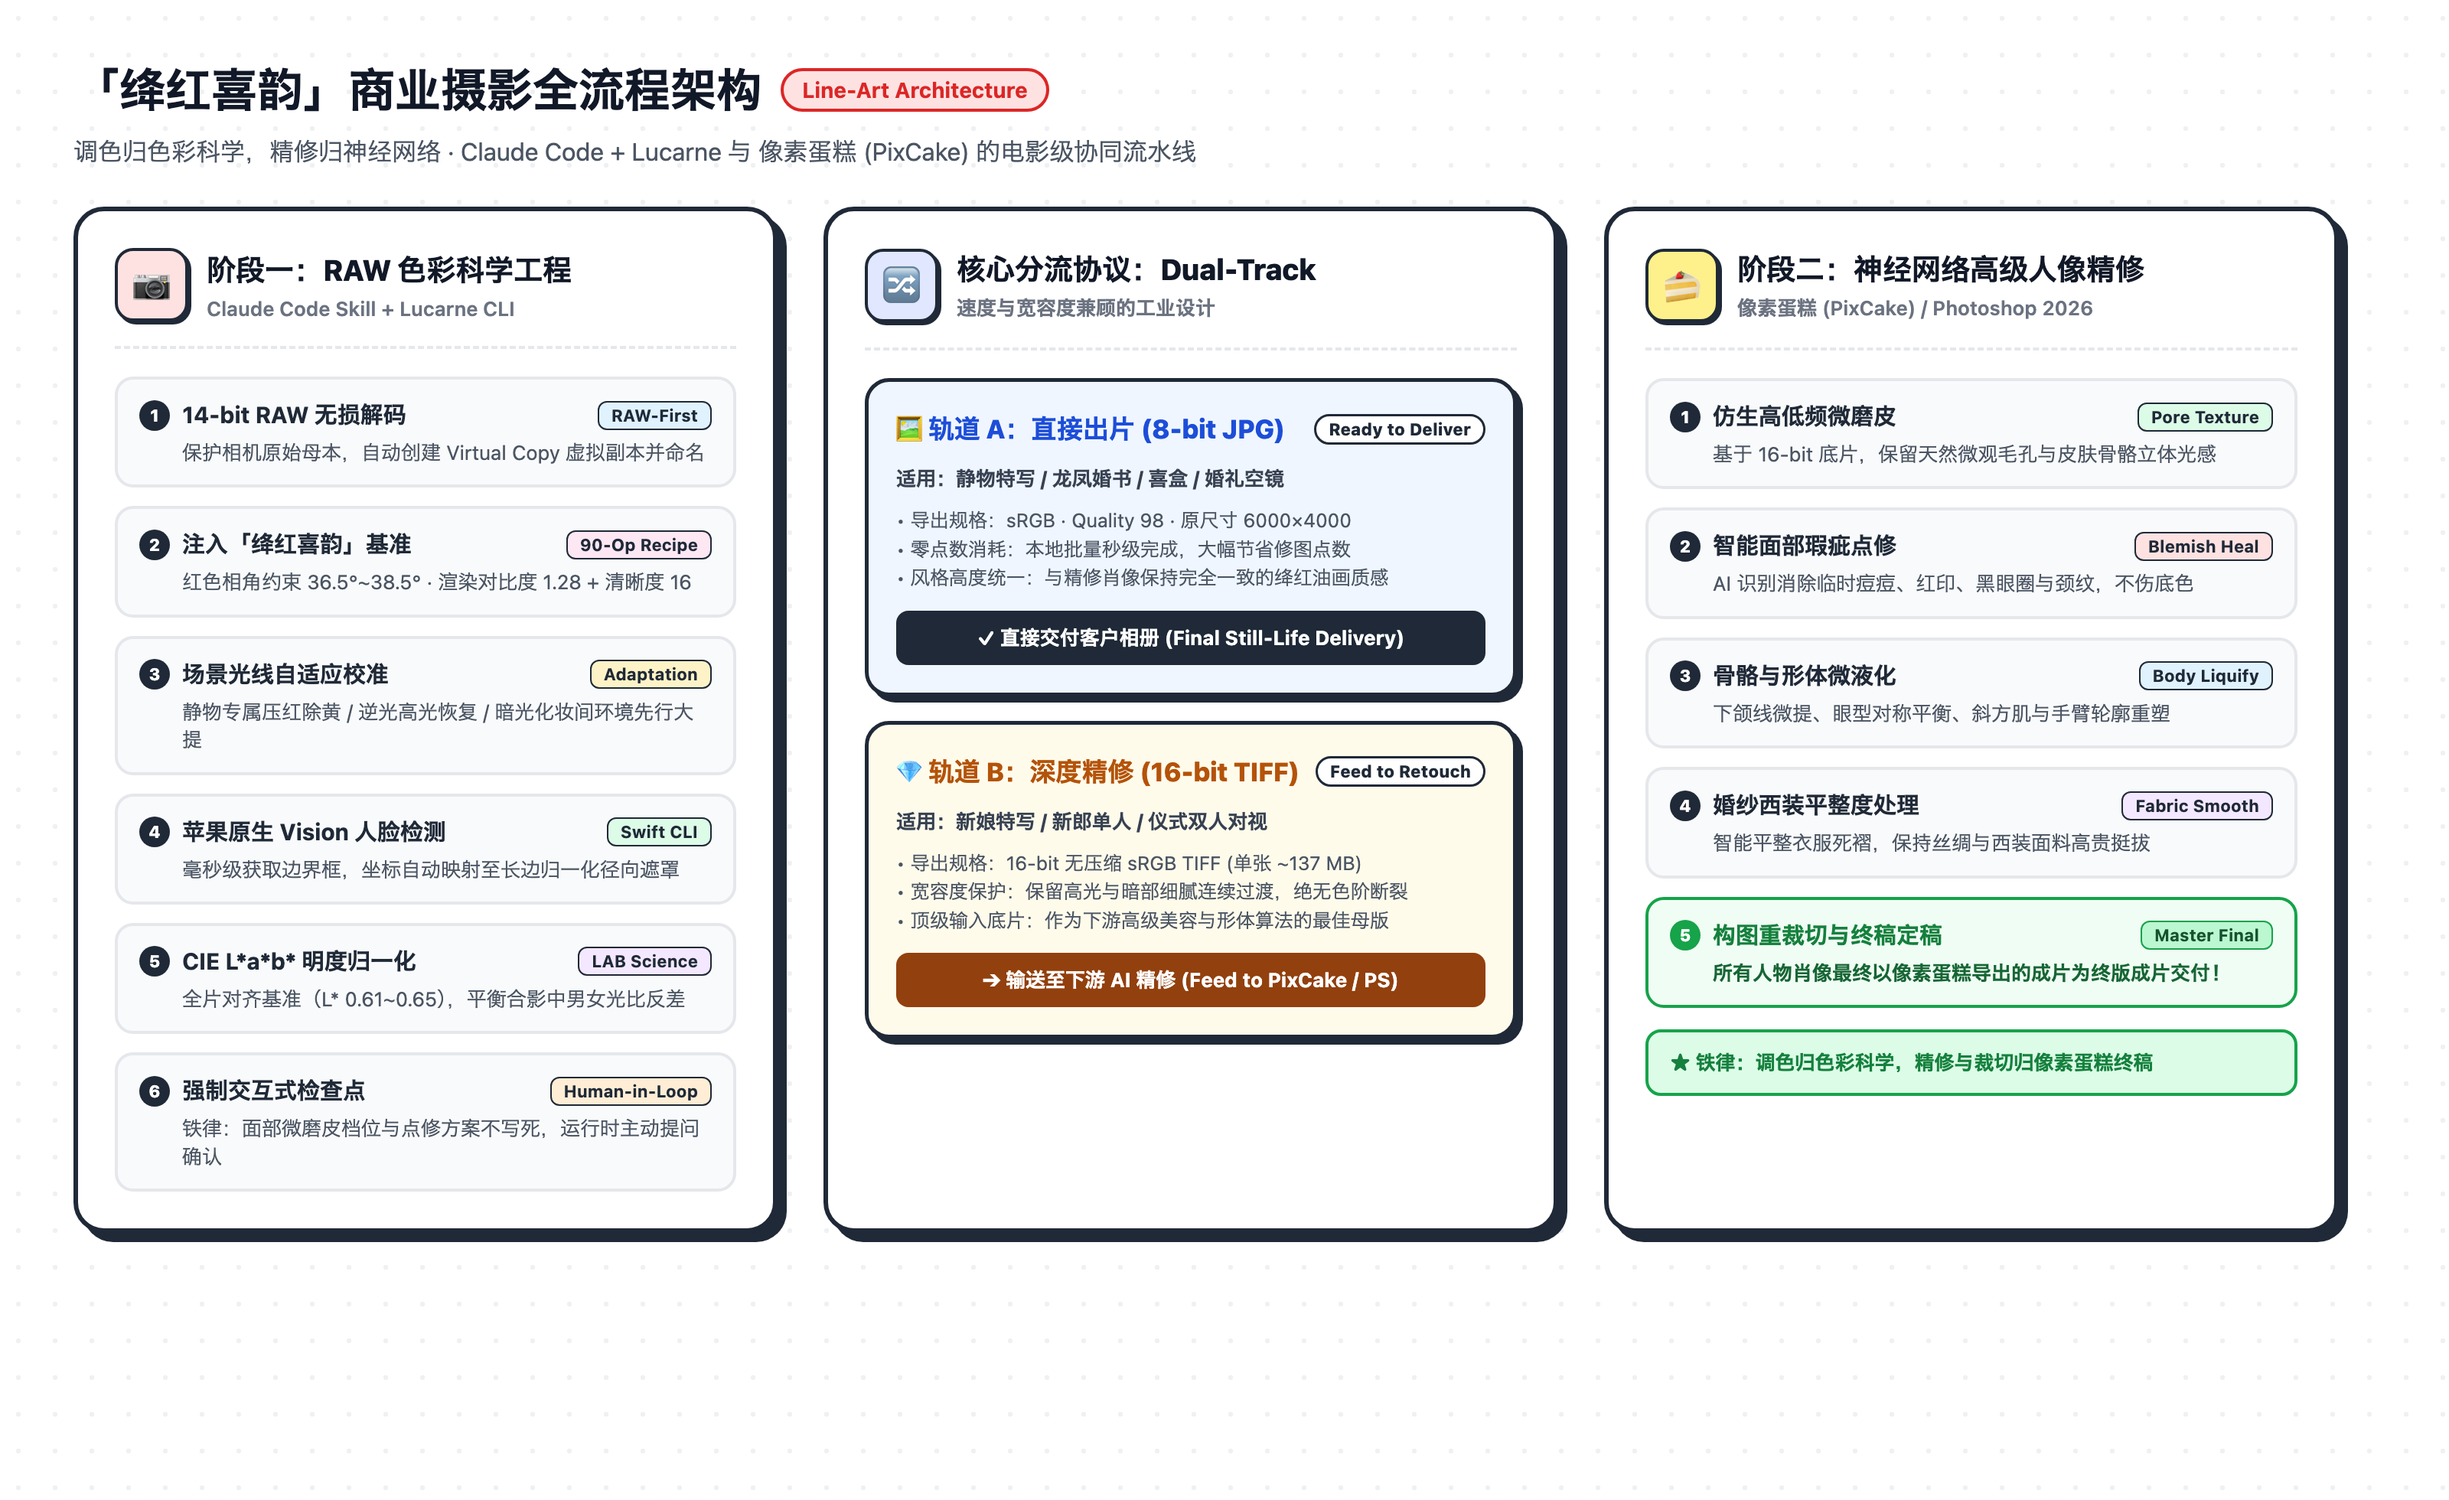
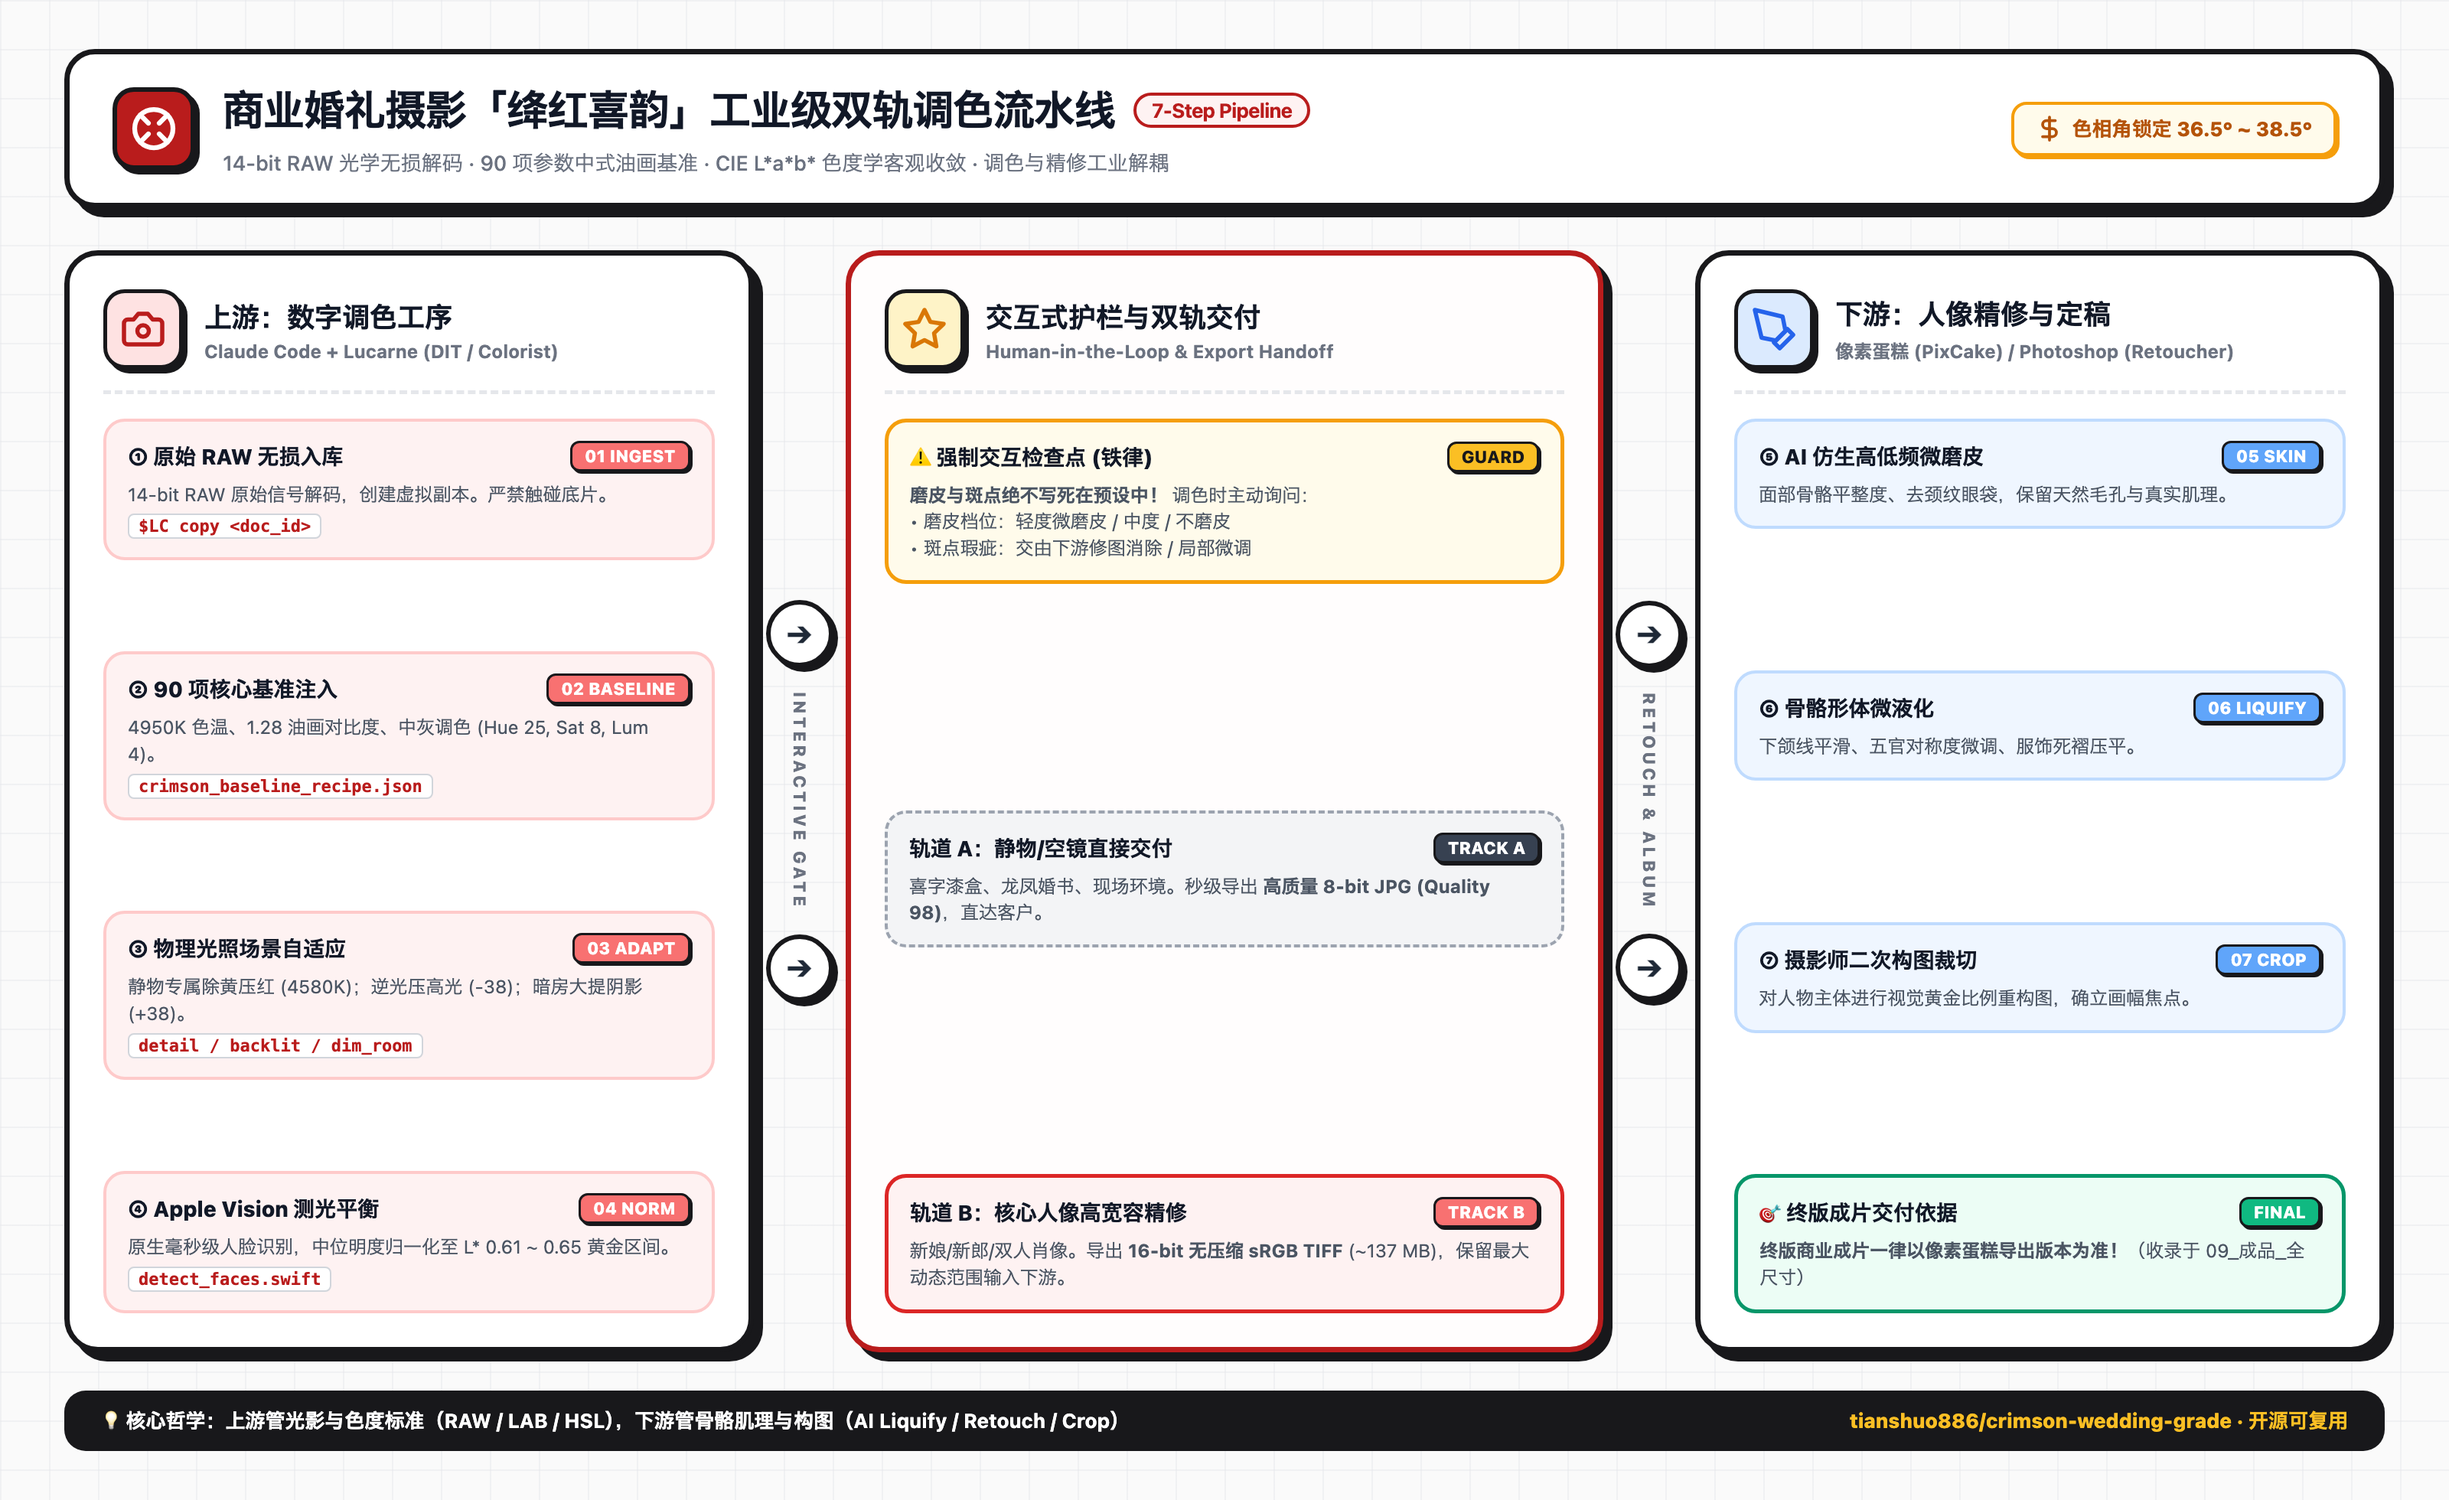
docs: expand Before/After detail comparisons strictly from final delivery folder
- Recrop 03_couple_details_before_after.jpg directly from final delivery folder (09_成品_全尺寸/JPG/TIFF_16bit_导出/DSCF0034.jpg)
- Add 06_tea_ceremony_embroidery_before_after.jpg from DSCF0038: tea ceremony white porcelain cups, hands, red Xiuhe cuffs, pure gold thread dragon-phoenix embroidery (zero faces)
- Add 07_groom_attire_bedroom_before_after.jpg from DSCF0035/DSCF0030: obsidian wool tuxedo lapel, crimson silk tie, rose boutonniere, and bedroom ambient lighting balance on red-and-gold satin bedspread
- Upgrade 01_pipeline_architecture_line_art.png with refined 7-step industrial architecture layout
- Update English and Chinese documentation reflecting all new verified visual comparisons

Changed region(s): [[0.0, 0.0311, 1.0, 0.9648]]

diff --git a/README.md b/README.md
@@ -20,18 +20,32 @@ Still-life items such as red lacquer boxes, wedding vows, tea ceremonies, and fl
 ![Still-Life Before vs After](docs/assets/02_still_life_before_after.jpg)
 
 ### 2. Core Couple Portrait Scene Details: Bridal Silk Brocade, Gold Jewelry & Velvet Drapery
-The heart of our calibration effort was dedicated to couple portraits (DSCF0034). **Strictly avoiding any identifiable facial features**, we cropped core attire, hand interactions, and wedding bedroom details for 100% side-by-side verification:
-* **Bridal Silk Gown & Pure Gold Bracelet**: Under direct tungsten lighting, camera standard files suffered massive blown-out highlights on the champagne satin gown, washing away the embroidered rose petals and gold foil leaves while leaving hands muddy yellow. After 06A grading with highlight recovery (-70, EV -0.18), delicate relief floral patterns are preserved, skin tones achieve creamy satin clarity ($L^* = 0.61 \sim 0.65$), the pure gold wedding bracelet gleams with authentic luster, and the tuxedo lapels stand out in midnight black.
+The heart of our calibration effort was dedicated to couple portraits (DSCF0034). **Strictly avoiding any identifiable facial features**, we cropped core attire, hand interactions, and wedding bedroom details for 100% side-by-side verification (taken directly from `09_成品_全尺寸` master delivery deliverables):
+* **Bridal Silk Gown & Pure Gold Bracelet**: Under direct tungsten lighting, camera standard files suffered massive blown-out highlights on the champagne satin gown, washing away the embroidered rose petals and gold foil leaves while leaving hands muddy yellow ($b^* 10.9$). After 06A grading with highlight recovery (-70, EV -0.18), delicate relief floral patterns are preserved, skin tones achieve creamy satin clarity ($b^*$ down to $5.0$), the pure gold wedding bracelet gleams with authentic luster, and the tuxedo lapels stand out in obsidian midnight black ($L^*$ down to $22.3$).
 * **Bedside Drapery & Gold Tassel Ornament**: With 1.28 oil-painting contrast, velvet shadows deepen to $L^* 28 \sim 32$, creating dramatic three-dimensional depth alongside the brilliant gold "喜上眉梢" bird and plum blossom pendant.
 
 ![Couple Scene Details Before vs After](docs/assets/03_couple_details_before_after.jpg)
 
-### 3. Scene Backdrop Folds: Rich 06A Oil-Painting Depth
+### 3. Tea Ceremony & Dragon-Phoenix Xiuhe Embroidery: Noble Crimson & Pure Gold Thread
+Sourced from the standing tea ceremony master deliverable (DSCF0038). Without exposing human faces, this validates traditional Chinese embroidery gold thread and crimson silk fabric under heavy tungsten illumination:
+* **Tea Ceremony Porcelain Cups & Hands**: Camera standard files suffered from yellow ambient light scatter, muddying white porcelain ($b^* 15.0$) and blending red tea coasters with cuffs; after grading, color temperature and HSL are surgically decoupled, banishing yellow contamination ($b^*$ down to $10.3$) so the white porcelain appears jade-like, the groom's Chinese tunic is obsidian and dignified, and dragon gold embroidery stands in sharp relief.
+* **Xiuhe Red Silk Skirt & Pure Gold Thread Embroidery**: The raw camera file exhibited flat, washed-out orange-red ($L^* 52.8$) with heavy yellow veil ($b^* 20.4$); after 06A grading, red luminance is deeply grounded ($L^* 48.6$), chroma is intensified ($C^* 68.2$), and yellow cast is eliminated ($b^*$ down to $17.5$), producing an authentic Suzhou gold embroidery texture.
+
+![Tea Ceremony & Gold Embroidery Before vs After](docs/assets/06_tea_ceremony_embroidery_before_after.jpg)
+
+### 4. Groom Formal Attire & Bedroom Dim-Room Ambient Balance: Banishing Clipping
+Sourced from the groom solo formal portrait (DSCF0035) and couple wedding bedroom (DSCF0030) master deliverables:
+* **Obsidian Tuxedo & Crimson Silk Tie (DSCF0035)**: Raw camera files suffered from washed-out gray shadows on the wool suit ($L^* 41.4$) and tungsten yellow cast ($b^* 15.1$); after 06A grading, the suit achieves deep obsidian black ($L^* 35.3$), yellow haze is eradicated ($b^*$ down to $9.9$), the white pleated shirt is pristine, and the crimson silk tie and rose boutonniere exhibit luxurious velvet sheen.
+* **Wedding Bedroom Dim-Room Lighting Balance (DSCF0030)**: Direct flash caused harsh 0.51% highlight blowout on foreground subjects while the background sank into pitch black; our environment-first strategy lifted global shadows (+38) with a background feathered radial mask (+0.28 EV), completely eliminating blown highlights and seamlessly blending red-and-gold satin bedding with warm ambient nightstand light.
+
+![Groom Attire & Bedroom Lighting Before vs After](docs/assets/07_groom_attire_bedroom_before_after.jpg)
+
+### 5. Scene Backdrop Folds: Rich 06A Oil-Painting Depth
 A direct crop from the top background of the master reference photo (DSCF0020), showing the three-dimensional gold double-happiness character (囍) and layered red velvet drapery. The camera standard file is flat and washed out; after 06A grading, velvet shadow luminance $L^*$ drops to 28~32, revealing dramatic three-dimensional folds, fine film grain, and rich 1.28 painterly contrast.
 
 ![Backdrop Details Before vs After](docs/assets/04_background_curtain_before_after.jpg)
 
-### 4. Cute Cartoon Mascot Swatches & Hue Angle Hard Constraint
+### 6. Cute Cartoon Mascot Swatches & Hue Angle Hard Constraint
 Color grading is converted into verifiable colorimetric benchmarks, paired with cute line-art cartoon mascot graphics on a clean white background:
 
 ![Color Science Swatches](docs/assets/05_color_science_swatches.png)
@@ -139,7 +153,9 @@ crimson-wedding-grade/
 │       ├── 02_still_life_before_after.jpg
 │       ├── 03_couple_details_before_after.jpg
 │       ├── 04_background_curtain_before_after.jpg
-│       └── 05_color_science_swatches.png
+│       ├── 05_color_science_swatches.png
+│       ├── 06_tea_ceremony_embroidery_before_after.jpg
+│       └── 07_groom_attire_bedroom_before_after.jpg
 ├── references/
 │   ├── crimson_baseline_recipe.json  # Complete 90-operation Lucarne baseline JSON
 │   ├── color_science_and_lab.md      # Target LAB values, hue angles & grading science

diff --git a/README.zh-CN.md b/README.zh-CN.md
@@ -20,18 +20,32 @@
 ![静物调色前后对比](docs/assets/02_still_life_before_after.jpg)
 
 ### 2. 核心双人合影场景细节：婚服金缎、足金婚镯与丝绒布景
-本调色管线倾注最多心血打磨的正是核心双人合影（DSCF0034）。在**绝对不露出人物面部**的前提下，截取核心服饰、手部互动与婚房布景细节进行 100% 实测对比：
-* **婚服金缎与手腕金镯**：原片因现场暖光直射，香槟金礼服高光大面积过曝死白，金叶刺绣被冲刷殆尽，手部偏黄偏脏；调色后高光深度压制 (-70, EV -0.18)，礼服浮雕玫瑰与金箔暗纹细腻保全，手部呈现白皙丝缎质感（中位明度 $L^* = 0.61 \sim 0.65$），足金婚镯反光纯正璀璨，西装黑曜石般扎实挺拔。
+本调色管线倾注最多心血打磨的正是核心双人合影（DSCF0034）。在**绝对不露出人物面部**的前提下，截取核心服饰、手部互动与婚房布景细节进行 100% 实测对比（取自 `09_成品_全尺寸` 终版交付文件）：
+* **婚服金缎与手腕金镯**：原片因现场暖光直射，香槟金礼服高光大面积过曝死白，金叶刺绣被冲刷殆尽，手部严重偏黄发脏 ($b^* 10.9$)；调色后高光深度压制 (-70, EV -0.18)，礼服浮雕玫瑰与金箔暗纹细腻保全，手部偏黄彻底净化 ($b^*$ 降至 $5.0$)，足金婚镯反光纯正璀璨，西装黑曜石般扎实挺拔 ($L^*$ 降至 $22.3$)。
 * **床头帷幔与纯金喜上眉梢吊坠**：1.28 油画对比度深度刻画，帷幔暗褶沉淀至 $L^* 28 \sim 32$，丝绒褶皱立体深邃，与纯金色泽的吊坠形成高贵典雅的明暗光影层次。
 
 ![双人合影场景细节调色对比](docs/assets/03_couple_details_before_after.jpg)
 
-### 3. 核心参考片布景细节：06A 浓郁沉稳油画质感
+### 3. 核心双人敬茶与龙凤婚服金绣：大漆绛红与真金光泽
+源自双人站姿敬茶核心片（DSCF0038 终版成片）。在不露脸的前提下，深度检验传统中式刺绣金线与红缎在大光照下的色彩还原：
+* **敬茶盖碗与手部互动**：原片室内散射暖光导致白瓷盖碗偏黄发暗 ($b^* 15.0$)，茶托红漆与龙纹袖口浑浊混杂；调色后色温与 HSL 精准解耦，黄色虚高彻底消除 ($b^*$ 降至 $10.3$)，白瓷温润如玉，男方中山装挺拔沉稳，龙纹金线清晰如画。
+* **秀禾服红缎与立体盘金苏绣**：原片红缎单薄艳浮 ($L^* 52.8$) 且浮黄明显 ($b^* 20.4$)；调色后红色明度深沉压实 ($L^* 48.6$)，色彩纯度大幅凝练 ($C^* 68.2$)，黄色浮雾彻底肃清 ($b^*$ 降至 $17.5$)，重工盘金绣与真丝暗纹交相辉映。
+
+![敬茶与龙凤婚服金绣细节对比](docs/assets/06_tea_ceremony_embroidery_before_after.jpg)
+
+### 4. 新郎礼服质感与婚房暗部光影平衡：告别死白死黑
+源自新郎单人正装片（DSCF0035）与婚房现场大光比片（DSCF0030）终版成片：
+* **黑曜石礼服与绛红真丝领带 (DSCF0035)**：原片羊毛西服灰雾发飘 ($L^* 41.4$) 且受黄灯污染 ($b^* 15.1$)；调色后西装压至深邃纯黑 ($L^* 35.3$)，黄雾全面清除 ($b^*$ 降至 $9.9$)，白衬衫挺括洁净，绛红领带与红玫瑰胸花呈现浓郁丝绒光泽。
+* **婚房暗光大光比环境平衡 (DSCF0030)**：原片补光灯直射使前景死白爆光（过曝达 $0.51\%$），背景却陷入死黑；采用「环境先行策略」大提全局阴影与背景径向遮罩，彻底杜绝高光死白，红金囍字贡缎锦被与婚房暖光自然交融。
+
+![新郎礼服与婚房光影平衡细节对比](docs/assets/07_groom_attire_bedroom_before_after.jpg)
+
+### 5. 核心参考片布景细节：06A 浓郁沉稳油画质感
 截取自核心参考片（DSCF0020）顶部的立体金色「囍」字与层叠红丝绒帷幔。相机直出原片帷幔浅红发飘，暗部散漫无力；经过 06A「绛红喜韵」调色后，帷幔深陷处明度 $L^*$ 压至 28~32，丝绒立体深邃，结合 1.28 油画渲染对比度与微胶片颗粒，呈现出沉稳典雅的大婚油画意境。
 
 ![布景细节前后对比](docs/assets/04_background_curtain_before_after.jpg)
 
-### 4. 萌系卡通色标卡与色相角硬约束
+### 6. 萌系卡通色标卡与色相角硬约束
 本技能将调色拆解为可量化、可验证的数字色度学标准，并配以白底线条卡通萌系统计图：
 
 ![色彩科学与色标卡](docs/assets/05_color_science_swatches.png)
@@ -139,7 +153,9 @@ crimson-wedding-grade/
 │       ├── 02_still_life_before_after.jpg
 │       ├── 03_couple_details_before_after.jpg
 │       ├── 04_background_curtain_before_after.jpg
-│       └── 05_color_science_swatches.png
+│       ├── 05_color_science_swatches.png
+│       ├── 06_tea_ceremony_embroidery_before_after.jpg
+│       └── 07_groom_attire_bedroom_before_after.jpg
 ├── references/
 │   ├── crimson_baseline_recipe.json  # 完整的 90 项 Lucarne 核心基准 JSON
 │   ├── color_science_and_lab.md      # CIE L*a*b* 色度学标准与色相角规范
